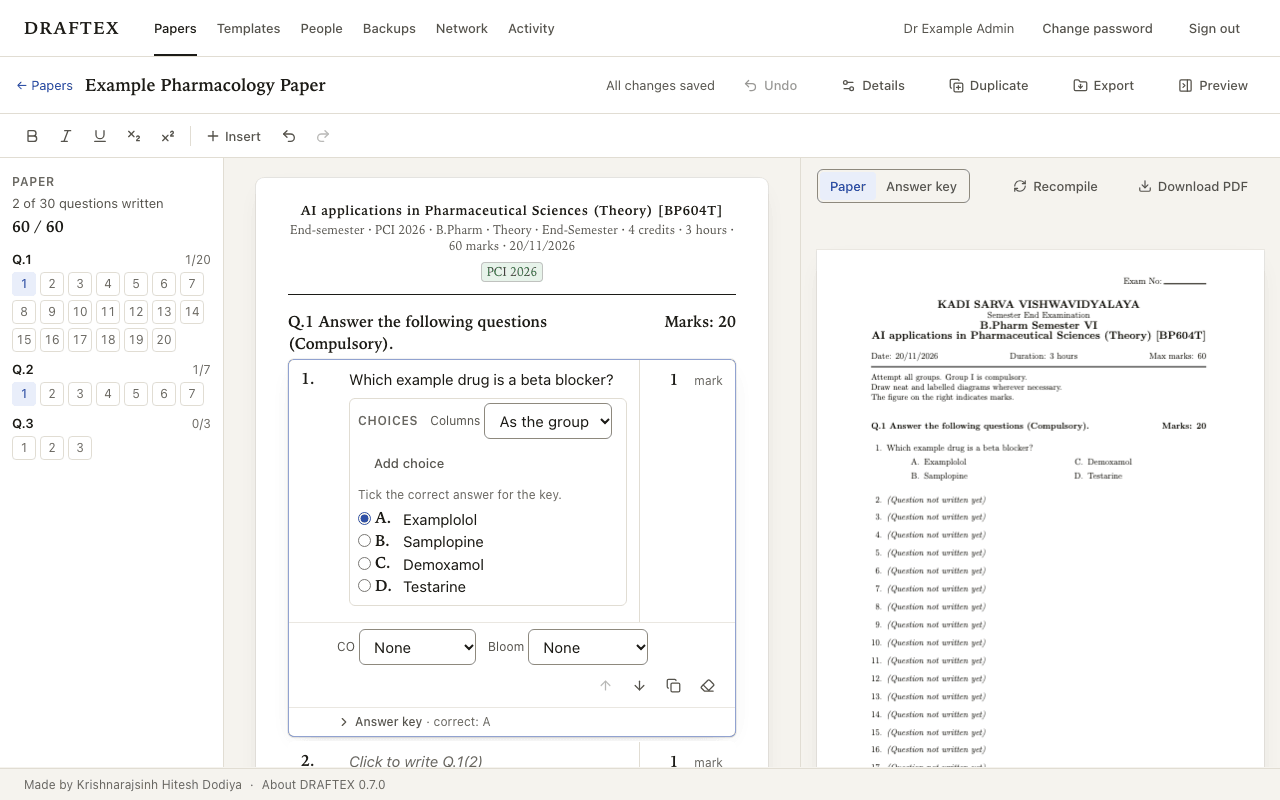
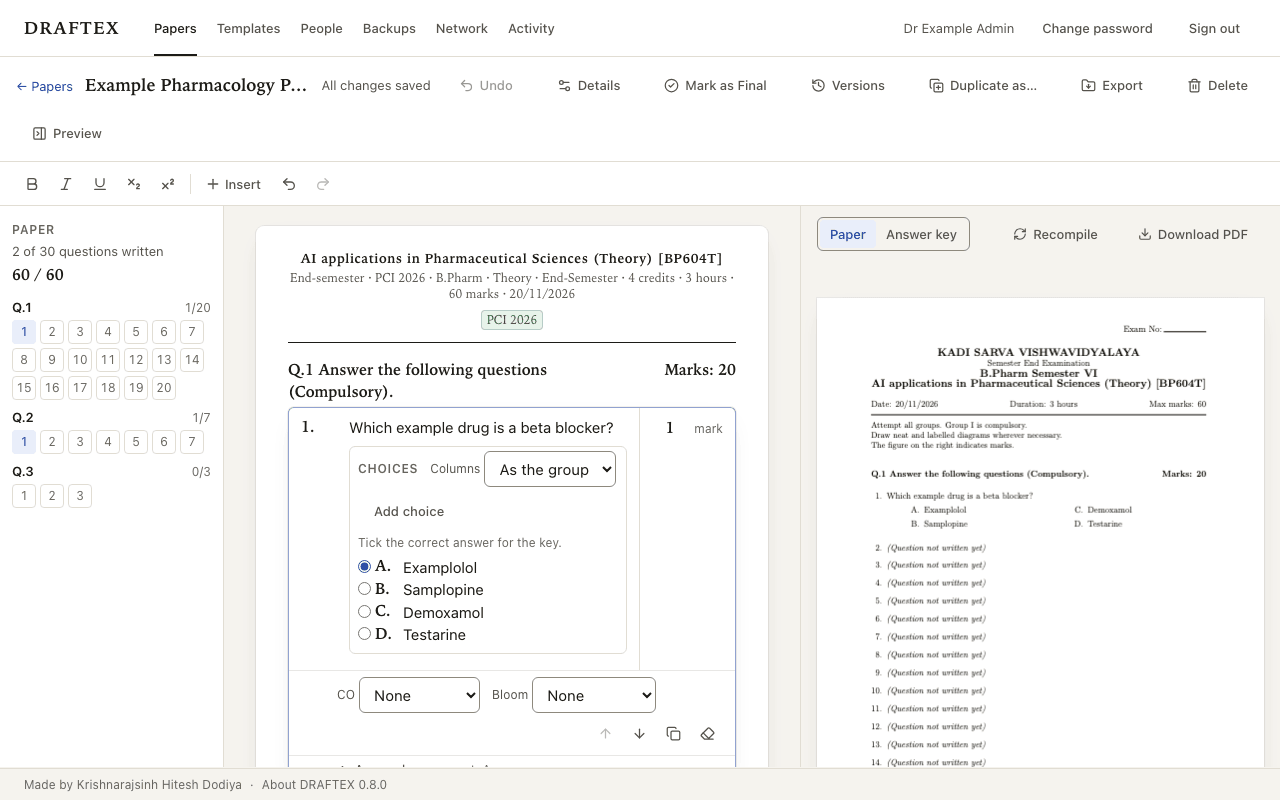
docs: explain finding papers, Final and Printed, versions and Duplicate as
The user guide gains Recent papers, the Papers search and filters, the
Final/Printed lock with Edit, versions, and the three Duplicate as
choices, with two new screenshots; all screenshots are regenerated from
invented data. The README lists the new measurement, screenshot and
upgrade-fixture scripts and how upgrades are tested.

diff --git a/scripts/guide-screenshots.ts b/scripts/guide-screenshots.ts
@@ -135,6 +135,28 @@ await ask.getByText(/empty questions are left out/).waitFor({ timeout: 60_000 })
 await shot(page, "07-export");
 await ask.getByRole("button", { name: "Cancel" }).click();
 
+// Final, then its versions (D56, D57).
+await page.getByRole("button", { name: "Mark as Final" }).click();
+await page.getByRole("note").filter({ hasText: "This paper is Final." }).waitFor();
+await page.getByRole("button", { name: /^Versions/ }).click();
+await page
+  .getByRole("dialog", { name: "Versions" })
+  .getByText("Marked Final", { exact: true })
+  .waitFor();
+await shot(page, "12-versions");
+await page.keyboard.press("Escape");
+
+// An ATKT copy, so the Papers page has more than one paper (D59, D60).
+await page.getByRole("button", { name: "Duplicate as…" }).click();
+await page
+  .getByRole("dialog", { name: "Duplicate as…" })
+  .getByRole("button", { name: "Make the copy" })
+  .click();
+await page.getByRole("heading", { level: 1, name: /\(ATKT\)$/ }).waitFor();
+await page.goto("/papers");
+await page.getByRole("search", { name: "Find papers" }).waitFor();
+await shot(page, "11-papers");
+
 await page.goto("/admin/backups");
 await page.getByRole("button", { name: "Back up now" }).click();
 await page.getByRole("status").filter({ hasText: "Backup saved." }).waitFor({ timeout: 60_000 });

diff --git a/docs/USER_GUIDE.md b/docs/USER_GUIDE.md
@@ -19,7 +19,7 @@ The pictures in this guide use made-up names and questions.
 4. [Writing a paper](#4-writing-a-paper)
 5. [The answer key](#5-the-answer-key)
 6. [Exporting: the files you print or send](#6-exporting-the-files-you-print-or-send)
-7. [An ATKT copy of a paper](#7-an-atkt-copy-of-a-paper)
+7. [Copies for ATKT and next year; finding papers](#7-copies-for-atkt-and-next-year-finding-papers)
 8. [Templates](#8-templates)
 9. [Backups](#9-backups)
 10. [Colleagues and other computers](#10-colleagues-and-other-computers)
@@ -103,7 +103,9 @@ After that you see the home page:
 ![Home page with "Open my papers" and "Open the template library"](user-guide/02-home.png)
 
 The top bar has **Papers**, **Templates**, and for the administrator
-**People**, **Backups**, **Network** and **Activity**.
+**People**, **Backups**, **Network** and **Activity**. Under the buttons,
+**Recent papers** lists the five papers you changed last; click one to open
+it.
 
 ---
 
@@ -159,8 +161,32 @@ While you write a question:
 finds a problem (for example a question that cannot be printed), the question
 is marked and the message says what to change.
 
-**Details** changes the title, course, exam date and status (Draft or
-Final).
+**Details** changes the title, course, exam date and academic year.
+
+### Final and Printed papers
+
+When a paper is finished, click **Mark as Final**. A Final paper is
+read-only: a blue note at the top says so, and nothing in it can be changed
+by accident, from this window or another one. **Exporting** a paper (section
+6) marks it **Printed**, with the date.
+
+To change a Final or Printed paper, click **Edit** in the note. DRAFTEX asks
+first, then puts the paper back to **Draft**.
+
+### Versions
+
+Each time a paper is marked Final or exported, DRAFTEX keeps a copy of it as
+it was then: a **version**. Click **Versions** in the paper to see them.
+
+![Versions of a paper: open as PDF or restore](user-guide/12-versions.png)
+
+- **Paper PDF** and **Key PDF** show that version as it was printed. DRAFTEX
+  makes the PDF again, which takes a few seconds.
+- **Restore…** makes a new Draft paper from that version (with no exam
+  date); the paper you are in stays as it is.
+
+The newest 20 versions of each paper are kept. Versions are part of backups,
+and they go to Trash and are deleted with their paper.
 
 ### Deleting a paper
 
@@ -209,13 +235,44 @@ The export is saved twice:
 
 Exporting the same paper again on the same day replaces that day's folder.
 
+A successful export marks the paper **Printed** and keeps a version of it
+(section 4, "Versions").
+
 ---
 
-## 7. An ATKT copy of a paper
+## 7. Copies for ATKT and next year; finding papers
 
-Open the paper and click **Duplicate**. DRAFTEX suggests the exam
-*Supplementary (ATKT)* and the title "… (ATKT)". **Make the copy** copies the
-questions and the answer key; then change what you need.
+### Duplicate as…
+
+Open the paper and click **Duplicate as…**, then choose:
+
+- **Next academic year**: the same exam for the next year. DRAFTEX fills in
+  the year (2026-27 becomes 2027-28); if your paper's year is written some
+  other way, type the new one.
+- **ATKT copy**: the supplementary (ATKT) version for the same year. This is
+  the suggestion for an end-semester paper.
+- **Another copy**: choose the exam yourself.
+
+**Make the copy** copies the questions and the answer key into a new Draft
+paper with no exam date; then change what you need. The paper you copied
+stays as it is.
+
+### Finding a paper
+
+The **Papers** page lists your papers, the most recently changed first.
+
+![Papers page with search and filters](user-guide/11-papers.png)
+
+- Type in **Search** part of a title, a course code (BP604T) or a course
+  title, and click **Show**.
+- **Exam** narrows the list to Sessional, End-semester, ATKT, Practical or
+  Other papers; **Year**, **Status** (Draft, Final, Printed) and **Course**
+  offer what your own papers have.
+- **Clear** shows every paper again. The browser's Back button returns to
+  the list you had.
+
+The search looks at titles and courses, not at the questions. Like
+everything in DRAFTEX, it only ever shows your own papers.
 
 ---
 

diff --git a/README.md b/README.md
@@ -79,7 +79,18 @@ Useful scripts:
 | `npm run catalogue:parse` · `catalogue:check`                 | Rebuild / verify the catalogue from the syllabus PDF                                       |
 | `node scripts/e2e-server.ts [port] [local\|lan] [start\|dev]` | Run the built app on a throwaway data folder                                               |
 
+| `node scripts/measure-performance.ts <url>` | Editor key latency and warm preview on a fresh throwaway copy (recorded each phase) |
+| `node scripts/guide-screenshots.ts <url>` | Regenerate `docs/user-guide/*.png` from a fresh throwaway copy on port 3210 |
+| `node scripts/make-upgrade-fixture.ts <url> <data> <tag>` | Rebuild `tests/fixtures/upgrade/` against a build of the previous release |
+
 Do not run `next dev` while building or running e2e: both use `.next`.
+
+Upgrades are tested two ways: `tests/e2e/upgrade.spec.ts` restores a backup
+made by the previous release (`tests/fixtures/upgrade/`, invented data) and
+checks its rows and exported PDFs are unchanged; the CI job
+`upgrade (windows-latest)` installs the newest earlier tag, uses it, then
+runs `update-windows.bat` to the commit. Phases 9–12 follow
+`docs/ROADMAP-9-12.md`.
 
 ## End-user install (what the scripts do)
 
